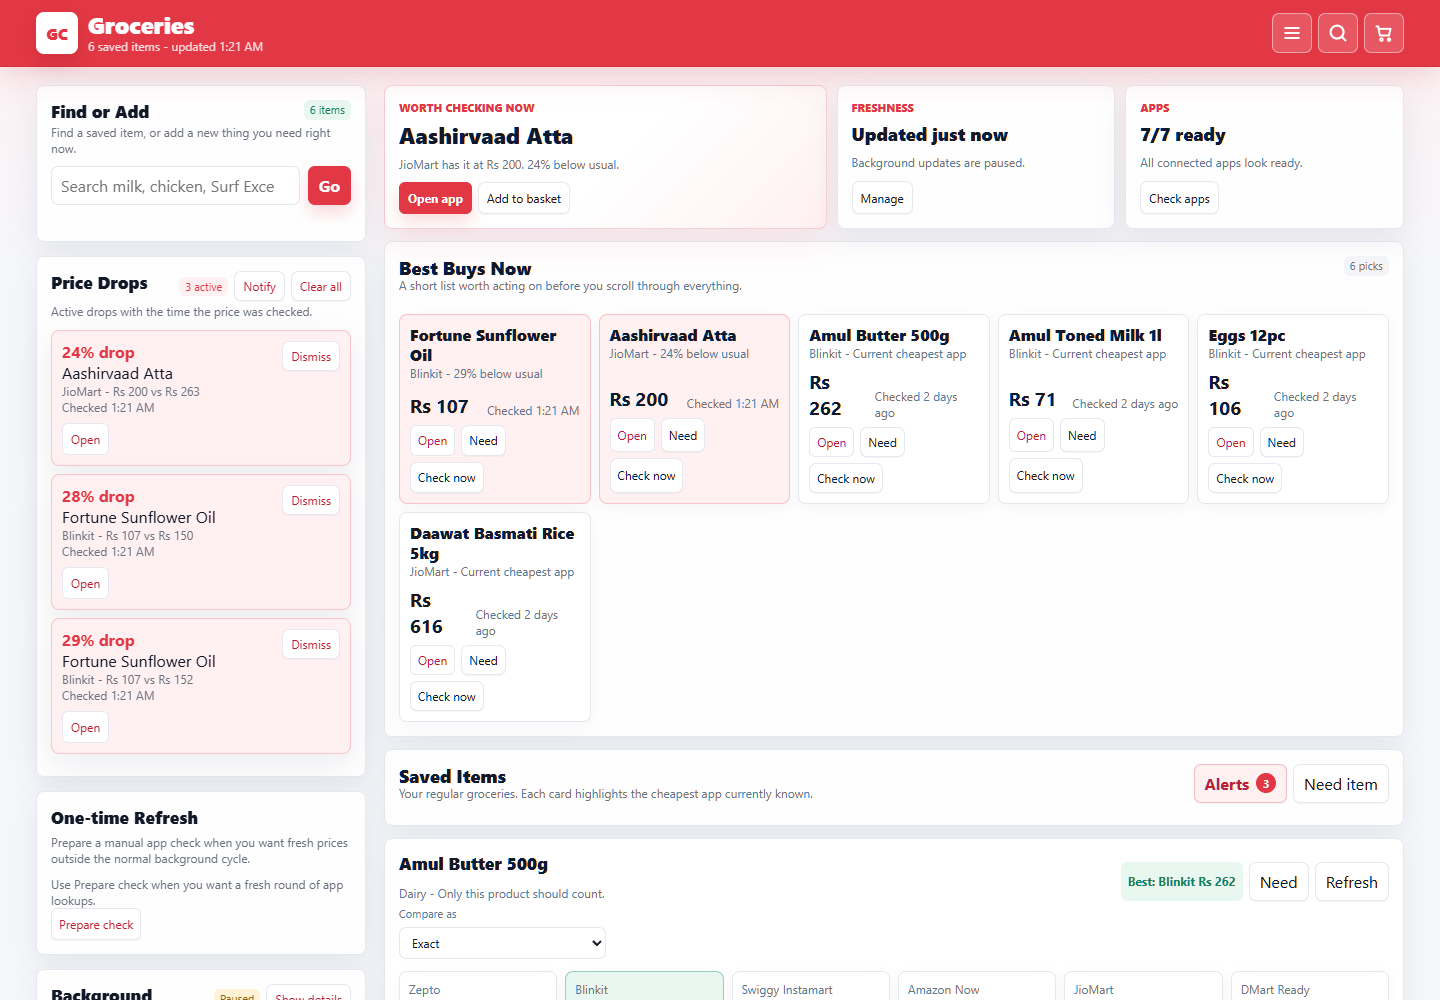
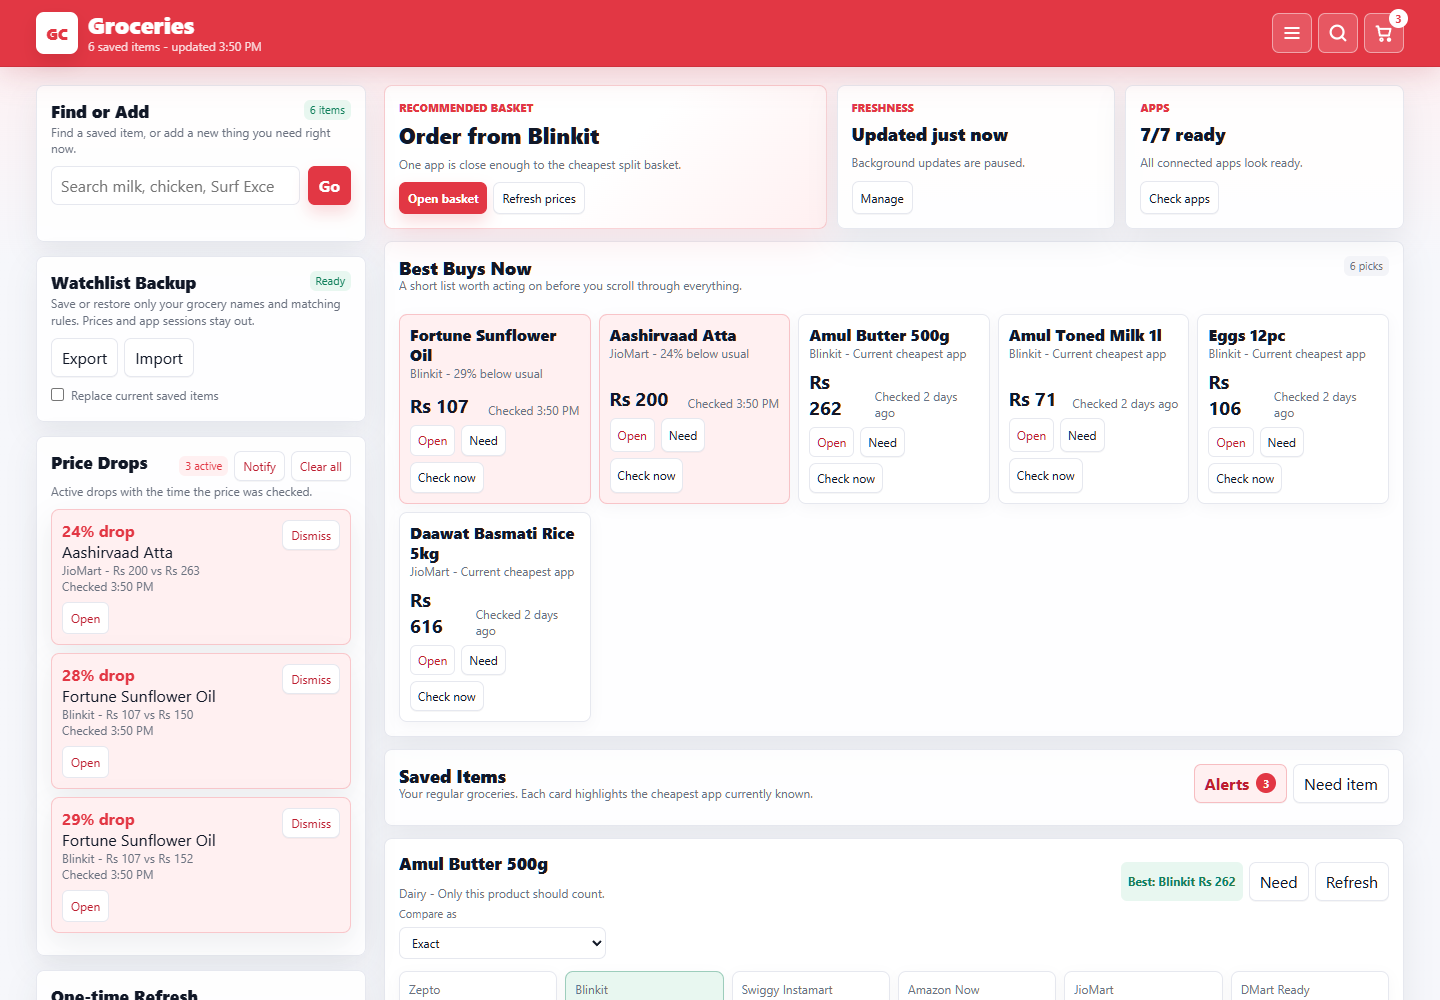
Automate public demo screenshots

diff --git a/grocery_cockpit.py b/grocery_cockpit.py
@@ -30,7 +30,7 @@ import provider_adapters
 
 
 APP_NAME = "Groceries"
-APP_VERSION = "0.15.1"
+APP_VERSION = "0.15.2"
 DEFAULT_PORT = 8877
 ACCESS_COOKIE = "grocery_cockpit_access"
 STATE_CACHE_SECONDS = 30

diff --git a/docs/DEMO_SCREENSHOTS.md b/docs/DEMO_SCREENSHOTS.md
@@ -1,0 +1,34 @@
+# Demo Screenshots
+
+The public screenshots are generated from a temporary, synthetic Grocery Cockpit installation. The workflow never reads `config.json`, `data/`, browser profiles, cookies, order history, or personal price history.
+
+## Generate
+
+Install dependencies, then run:
+
+```powershell
+npm ci
+npm run screenshots
+```
+
+The command:
+
+1. Creates a temporary config with private access disabled.
+2. Seeds the built-in synthetic grocery history.
+3. Adds a synthetic three-item basket.
+4. Starts the dashboard on a free localhost port.
+5. Captures desktop, mobile, and basket-decision views.
+6. Verifies every PNG has the expected dimensions and is not suspiciously small.
+7. Removes the temporary database and config.
+
+Generated files:
+
+```text
+docs/assets/demo-desktop.png
+docs/assets/demo-mobile.png
+docs/assets/demo-basket.png
+```
+
+Set `GROCERY_CHROME_PATH` when Chrome, Edge, or Chromium is installed in a non-standard location. Set `GROCERY_PYTHON` when the Python executable is not discoverable as `py -3.13`, `python3.13`, `python3`, or `python`.
+
+Review all three images before committing them. The generator proves the files are valid, while visual review catches layout or content regressions.

diff --git a/README.md b/README.md
@@ -12,9 +12,14 @@ The project started with Indian quick-commerce use cases, but the core ideas are
 - basket optimization across providers
 - a mobile-friendly PWA dashboard
 - browser-session based provider probes for personal/local use where official APIs are unavailable
-- public-safe demo data for development and screenshots
+- public-safe demo data and automated screenshots
 
-![Grocery Cockpit mobile demo](docs/assets/demo-mobile.png)
+![Grocery Cockpit desktop demo](docs/assets/demo-desktop.png)
+
+<p align="center">
+  <img src="docs/assets/demo-mobile.png" alt="Grocery Cockpit mobile demo" width="30%">
+  <img src="docs/assets/demo-basket.png" alt="Grocery Cockpit basket recommendation demo" width="64%">
+</p>
 
 ## Status
 
@@ -68,6 +73,14 @@ py -3.13 grocery_cockpit.py seed
 
 The seed command creates a small sample grocery list and price history. It does not need your account, address, browser profile, or private grocery history.
 
+Generate the public-safe README screenshots from an isolated synthetic demo:
+
+```powershell
+npm run screenshots
+```
+
+See [docs/DEMO_SCREENSHOTS.md](docs/DEMO_SCREENSHOTS.md) for the workflow and privacy boundary.
+
 ## Watchlist Import/Export
 
 Export only saved grocery definitions:
@@ -96,7 +109,7 @@ Copy `config.example.json` to `config.json`, then set your own location and acce
 - a private dashboard access key
 - provider configuration
 
-Do not commit `config.json`, `data/`, browser profiles, logs, screenshots, or exported order history.
+Do not commit `config.json`, `data/`, browser profiles, logs, real-account screenshots, or exported order history. The synthetic images under `docs/assets/` are intentionally public.
 
 ## Provider Probes
 
@@ -133,6 +146,7 @@ browser_scan_worker.mjs     Playwright-based provider probe worker
 browser_provider_adapters.mjs browser probe policy registry
 auto_scan_worker.py         rotating background scan runner
 basket_scan_worker.py       focused basket/item scan runner
+scripts/                    public demo screenshot generator
 static/                     app icons
 deploy/                     self-hosting starters
 tests/                      core logic tests
@@ -148,6 +162,7 @@ py -3.13 -m unittest discover -s tests
 node tests/browser_provider_adapters.test.mjs
 node --check browser_scan_worker.mjs
 py -3.13 -m py_compile grocery_cockpit.py provider_adapters.py auto_scan_worker.py basket_scan_worker.py
+npm run screenshots
 ```
 
 The bad-match tests are fixture-driven. Add synthetic cases to `tests/fixtures/bad_match_cases.json` when improving grocery matching behavior.
@@ -157,7 +172,6 @@ The decision-engine tests in `tests/test_decision_engine.py` protect basket reco
 ## Roadmap
 
 - expand import/export for watchlists without personal price history
-- add a public demo screenshot set generated from seed data
 - improve hosted deployment paths for private self-hosted use
 
 See [ROADMAP.md](ROADMAP.md) for the maintainer-oriented plan.

diff --git a/docs/OSS_READINESS.md b/docs/OSS_READINESS.md
@@ -8,18 +8,18 @@ This checklist is for preparing Grocery Cockpit for a public repository and main
 - [ ] Verify `config.json` is not committed.
 - [ ] Verify `data/` is not committed.
 - [ ] Verify browser profiles and cookies are not committed.
-- [ ] Replace private screenshots with demo-data screenshots.
+- [x] Replace private screenshots with generated demo-data screenshots.
 - [ ] Run the full test/check command set.
 
 ## Project Signals To Build
 
-- [ ] Public README with clear problem statement.
-- [ ] Demo data that works for new users.
+- [x] Public README with clear problem statement.
+- [x] Demo data that works for new users.
 - [ ] Issues labeled for good first contributions.
-- [ ] Initial release tag, for example `v0.1.0`.
-- [ ] Changelog or release notes.
-- [ ] At least a small test suite around core logic.
-- [ ] Privacy and security documentation.
+- [x] Initial release tag, for example `v0.1.0`.
+- [x] Changelog or release notes.
+- [x] At least a small test suite around core logic.
+- [x] Privacy and security documentation.
 
 ## OpenAI Codex for OSS Application Notes
 

diff --git a/CONTRIBUTING.md b/CONTRIBUTING.md
@@ -43,6 +43,14 @@ node tests/browser_provider_adapters.test.mjs
 node --check browser_scan_worker.mjs
 ```
 
+Regenerate public demo images after visible dashboard changes:
+
+```powershell
+npm run screenshots
+```
+
+Review [docs/DEMO_SCREENSHOTS.md](docs/DEMO_SCREENSHOTS.md) before committing generated images.
+
 ## Provider Adapters
 
 Provider adapters should be optional and isolated. Prefer official APIs when available. Browser-session probes should be documented as personal/local workflows and should never require committing credentials or session files.

diff --git a/CHANGELOG.md b/CHANGELOG.md
@@ -1,5 +1,12 @@
 # Changelog
 
+## 0.15.2 - Automated Demo Screenshots
+
+- Added a one-command public screenshot generator using isolated synthetic data.
+- Added desktop, mobile, and basket-recommendation README images.
+- Added PNG dimension and blank-image checks to the generator.
+- Added screenshot generation to CI and documented its privacy boundary.
+
 ## 0.15.1 - Decision Engine Contracts
 
 - Added synthetic basket-optimization tests for one-app convenience, worthwhile splits, incomplete coverage, quantities, unit-price ranking, and suspicious-price rejection.

diff --git a/docs/PUBLISHING.md b/docs/PUBLISHING.md
@@ -6,8 +6,11 @@ Use this when preparing the public GitHub repository.
 
 ```powershell
 py -3.13 -m unittest discover -s tests
-py -3.13 -m py_compile grocery_cockpit.py auto_scan_worker.py basket_scan_worker.py
+py -3.13 -m py_compile grocery_cockpit.py provider_adapters.py auto_scan_worker.py basket_scan_worker.py
+node --check browser_provider_adapters.mjs
 node --check browser_scan_worker.mjs
+node --check scripts/generate_demo_screenshots.mjs
+npm run screenshots
 .\prepare_free_vm_bundle.ps1
 ```
 

diff --git a/ROADMAP.md b/ROADMAP.md
@@ -13,7 +13,7 @@
 
 - Move provider-specific logic behind clearer adapter interfaces. Completed in `0.15.0`.
 - Add more basket optimization and alerting tests. Completed in `0.15.1`.
-- Add screenshot generation from demo data for README assets.
+- Add screenshot generation from demo data for README assets. Completed in `0.15.2`.
 - Add CI for Python syntax, unit tests, and Node syntax checks.
 
 ## v0.3 Self-Hosted Personal Use